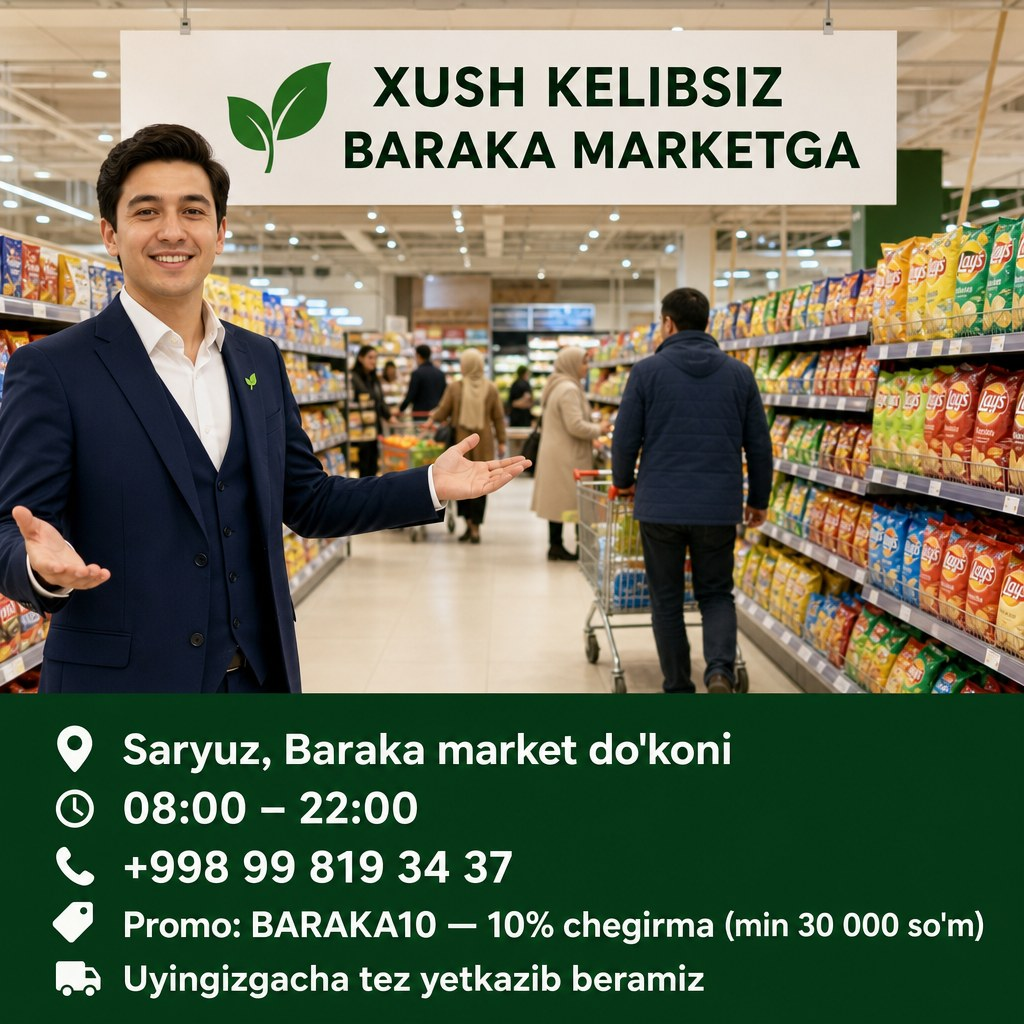
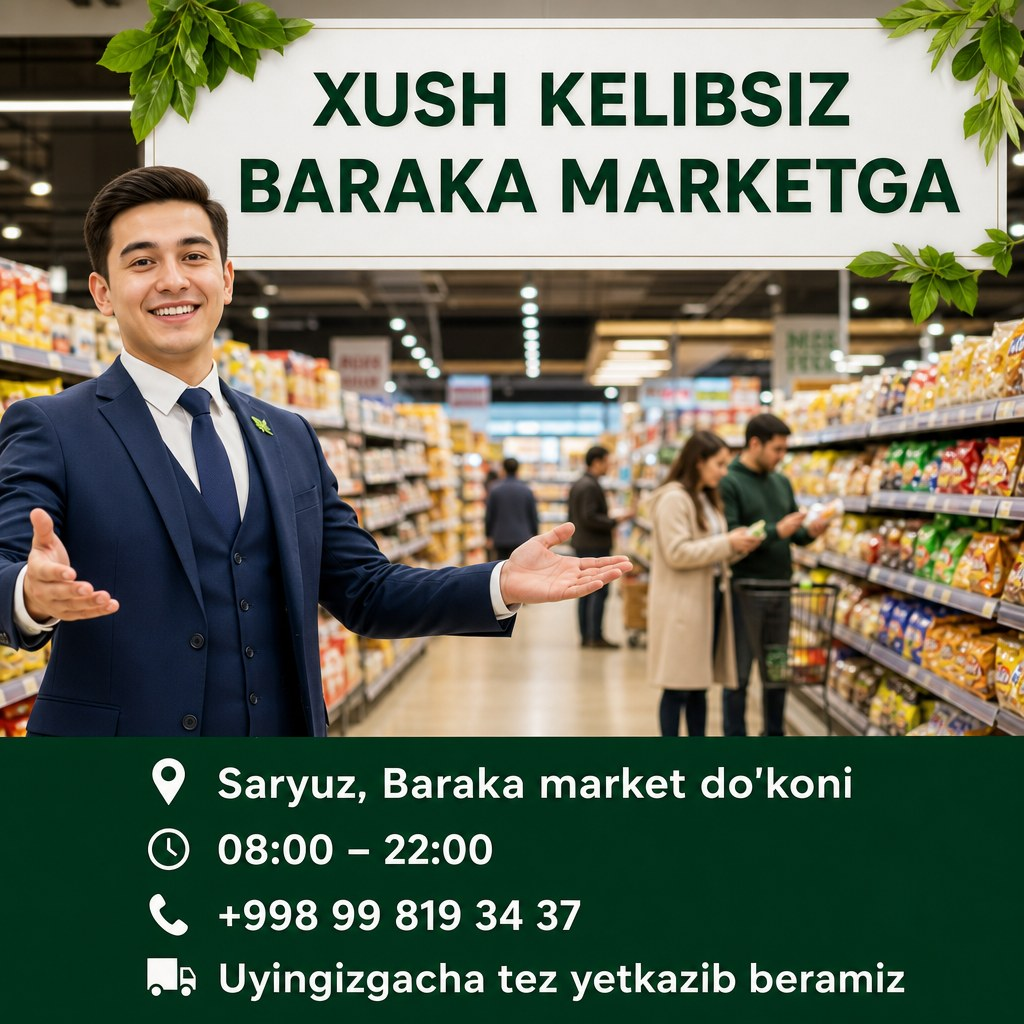
Welcome va /start dan promo olib tashlash
Rasmdan BARAKA10 qatori olib tashlandi; salomlashish
va yordam matnida ham promo ko‘rsatilmaydi.

diff --git a/bot/handlers.py b/bot/handlers.py
@@ -276,8 +276,6 @@ async def start(update: Update, context: ContextTypes.DEFAULT_TYPE) -> None:
         f"│ 🕐 {SHOP_HOURS}\n"
         f"│ 📞 {SHOP_PHONE}\n"
         f"└──────────────┘\n\n"
-        f"🏷 Promo: <b>BARAKA10</b> — 10% chegirma "
-        f"(min {MIN_ORDER_AMOUNT:,} so‘m)\n"
         f"👇 Pastdagi <b>🛒 Do'kon</b> tugmasini bosing!"
     )
     markup = menu_for(user.id)
